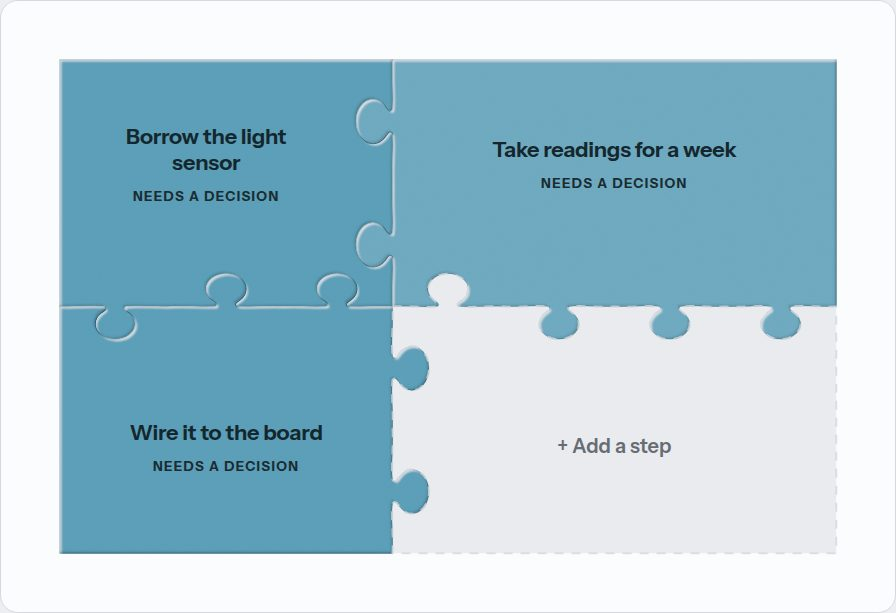
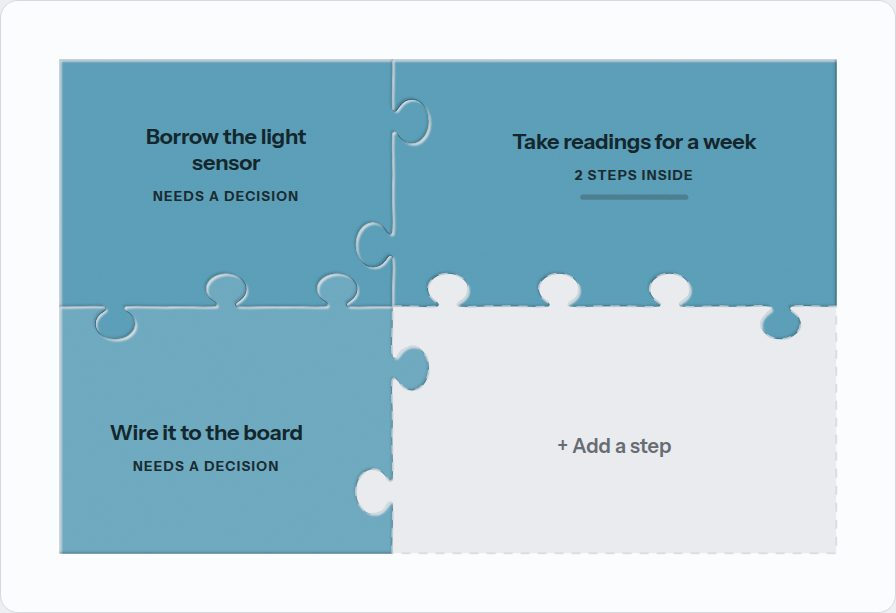
Give the front page's example a third level
The science fair project on the front page opened only one level down, which
read as the clickable boards stopping short. One of its steps is now split
once more, so the example goes as deep as the method pages' examples do.

Claude-Session: https://claude.ai/code/session_018rtB11oSKAoiRbZFLvnH2p

diff --git a/index.html b/index.html
@@ -102,11 +102,13 @@
     <!-- board-stack -->
     <figure class="boardshot"><div class="boardstack">
 <input type="radio" name="board-home" id="lvl-home-0" class="lvl" checked>
-<div class="level"><div class="levelbar"><span class="stated">the top board</span><span class="stated dim">a step with steps inside opens when clicked</span></div><div class="frame"><img src="/board.jpg" width="896" height="613" alt="A Greggle board: the science fair project cut into five interlocking steps, bigger steps holding more inside them"><label class="hot" for="lvl-home-1" style="left:33.4%;top:9.8%;width:20.7%;height:40.2%" title="Open The experiment itself"><span class="vh">Open The experiment itself</span></label><label class="hot" for="lvl-home-2" style="left:6.7%;top:50%;width:53.6%;height:40.2%" title="Open Build the display board"><span class="vh">Open Build the display board</span></label></div></div>
+<div class="level"><div class="levelbar"><span class="stated">the top board</span><span class="stated dim">a step with steps inside opens when clicked</span></div><div class="frame"><img src="/board.jpg" width="896" height="613" alt="A Greggle board: the science fair project cut into five interlocking steps, bigger steps holding more inside them"><label class="hot" for="lvl-home-1" style="left:6.7%;top:50%;width:35.1%;height:40.2%" title="Open The experiment itself"><span class="vh">Open The experiment itself</span></label><label class="hot" for="lvl-home-3" style="left:41.8%;top:9.8%;width:26.8%;height:42.9%" title="Open Build the display board"><span class="vh">Open Build the display board</span></label></div></div>
 <input type="radio" name="board-home" id="lvl-home-1" class="lvl">
-<div class="level"><div class="levelbar"><label class="up stated" for="lvl-home-0">&larr; Back up a level</label><span class="stated">inside The experiment itself</span></div><div class="frame"><img src="/board-1.jpg" width="896" height="613" alt="Inside The experiment itself: the board one level down" loading="lazy"></div></div>
+<div class="level"><div class="levelbar"><label class="up stated" for="lvl-home-0">&larr; Back up a level</label><span class="stated">inside The experiment itself</span></div><div class="frame"><img src="/board-1.jpg" width="896" height="613" alt="Inside The experiment itself: the board one level down" loading="lazy"><label class="hot" for="lvl-home-2" style="left:43.8%;top:9.8%;width:49.5%;height:40.2%" title="Open Take readings for a week"><span class="vh">Open Take readings for a week</span></label></div></div>
 <input type="radio" name="board-home" id="lvl-home-2" class="lvl">
-<div class="level"><div class="levelbar"><label class="up stated" for="lvl-home-0">&larr; Back up a level</label><span class="stated">inside Build the display board</span></div><div class="frame"><img src="/board-2.jpg" width="896" height="613" alt="Inside Build the display board: the board one level down" loading="lazy"></div></div>
+<div class="level"><div class="levelbar"><label class="up stated" for="lvl-home-1">&larr; Back up a level</label><span class="stated">inside The experiment itself &rsaquo; Take readings for a week</span></div><div class="frame"><img src="/board-2.jpg" width="896" height="613" alt="Inside Take readings for a week: the board one level down" loading="lazy"></div></div>
+<input type="radio" name="board-home" id="lvl-home-3" class="lvl">
+<div class="level"><div class="levelbar"><label class="up stated" for="lvl-home-0">&larr; Back up a level</label><span class="stated">inside Build the display board</span></div><div class="frame"><img src="/board-3.jpg" width="896" height="613" alt="Inside Build the display board: the board one level down" loading="lazy"></div></div>
 </div><figcaption class="stated">a real board &middot; the science fair project, cut into 5 steps &middot; bigger steps hold more inside them &middot; click one to open it</figcaption></figure>
     <!-- /board-stack -->
   </section>

diff --git a/tools/make-boards.js b/tools/make-boards.js
@@ -22,13 +22,15 @@ const root = path.join(__dirname, '..');
 // return to the top. shot: where the old single picture was taken; now a no-op,
 // since every level is photographed once the example is filled in.
 const BOARDS = {
-  // The front page's board: a project split by hand, with two of its steps split
-  // again, so there is somewhere to go. No framework.
+  // No framework.
   'home': ['Project', 'The science fair project', null, [
     ['split', 'Pick the question\nThe experiment itself\nBuild the display board\nPractise the talk\nKeep a logbook'],
     ['select', /^The experiment itself/], ['split', 'Borrow the light sensor\nWire it to the board\nTake readings for a week'],
     ['select', /^Build the display board/], ['split', 'Print the graphs\nWrite the three panels'],
+    ['open', /^The experiment itself/], ['select', /^Take readings for a week/], ['split', 'Set up the logging sheet\nRead it every morning at 7'],
   ]],
+  // The front page's board: a project split by hand, with two of its steps split
+  // again and one of those split once more, so there is somewhere to go.
   'five-whys': ['Problem', 'The band keeps missing practice', /^5 Whys/, [
     ['select', /^Why did that happen/], ['fill', /^Because/, "Two people didn't turn up each time, and you can't practise without a drummer."],
     ['open', /^Why did that happen/], ['select', /^And why/], ['fill', /^Because/, "They said they didn't know it was on."],
